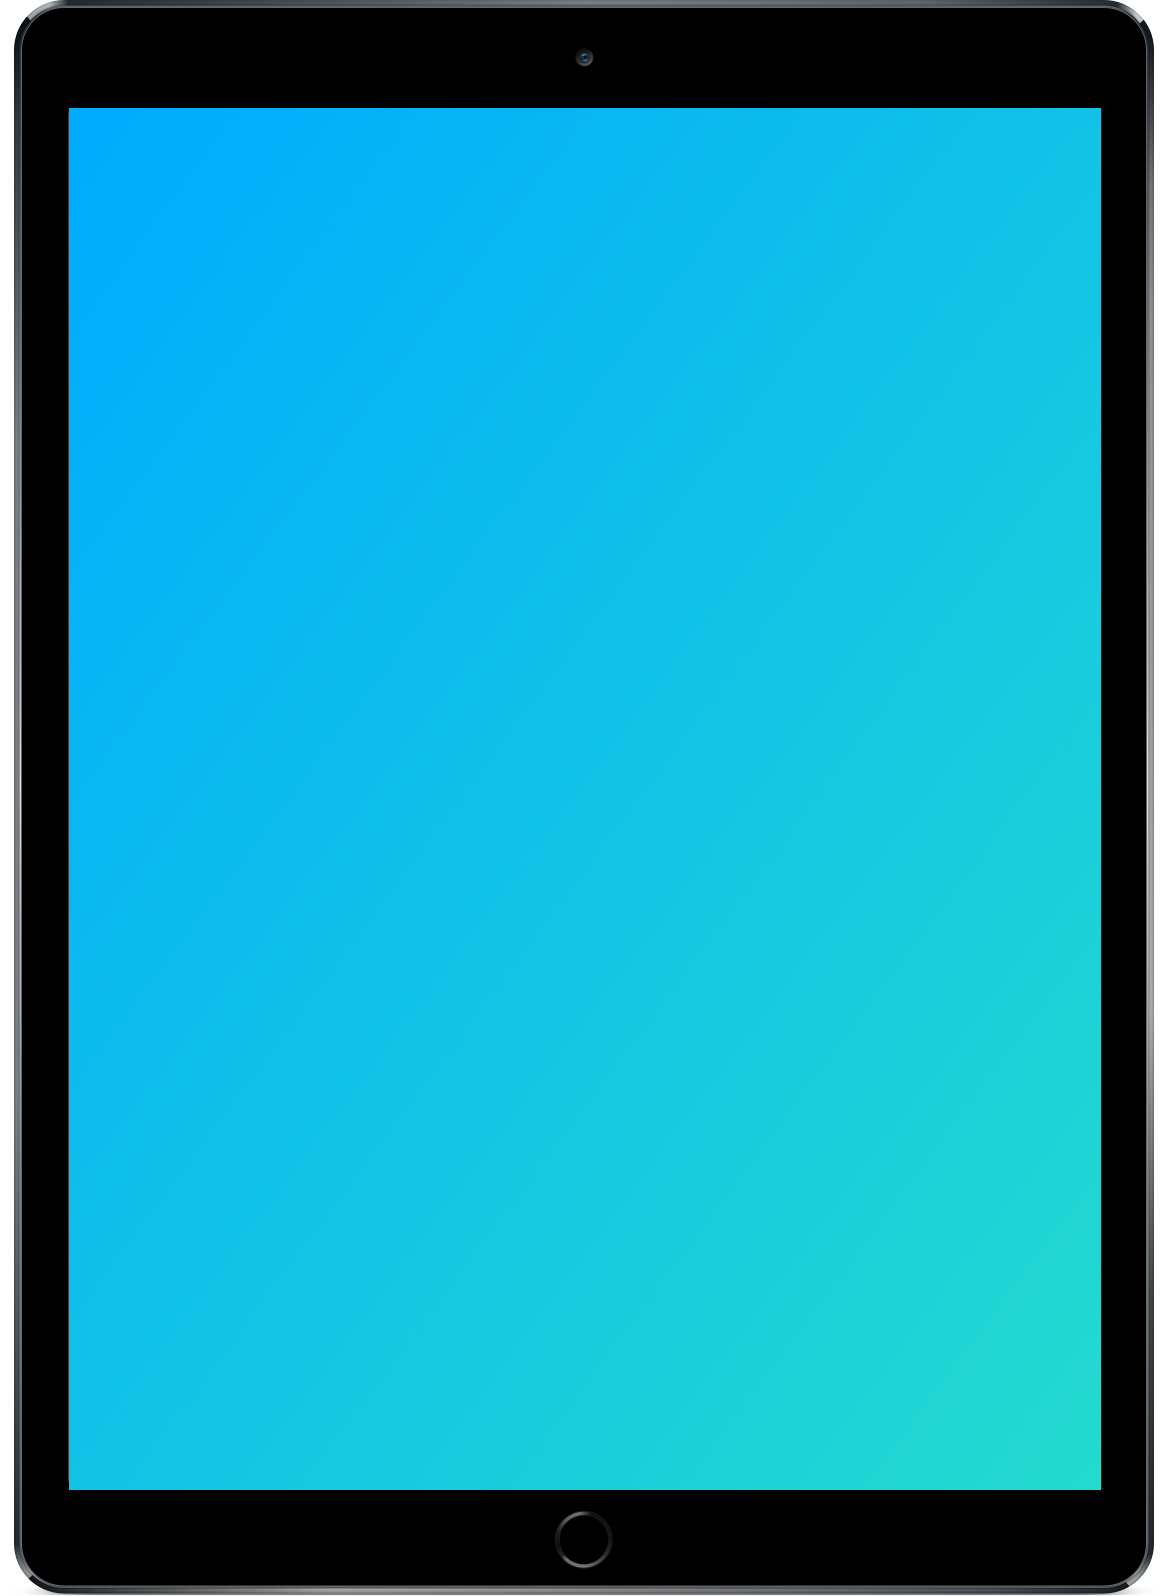
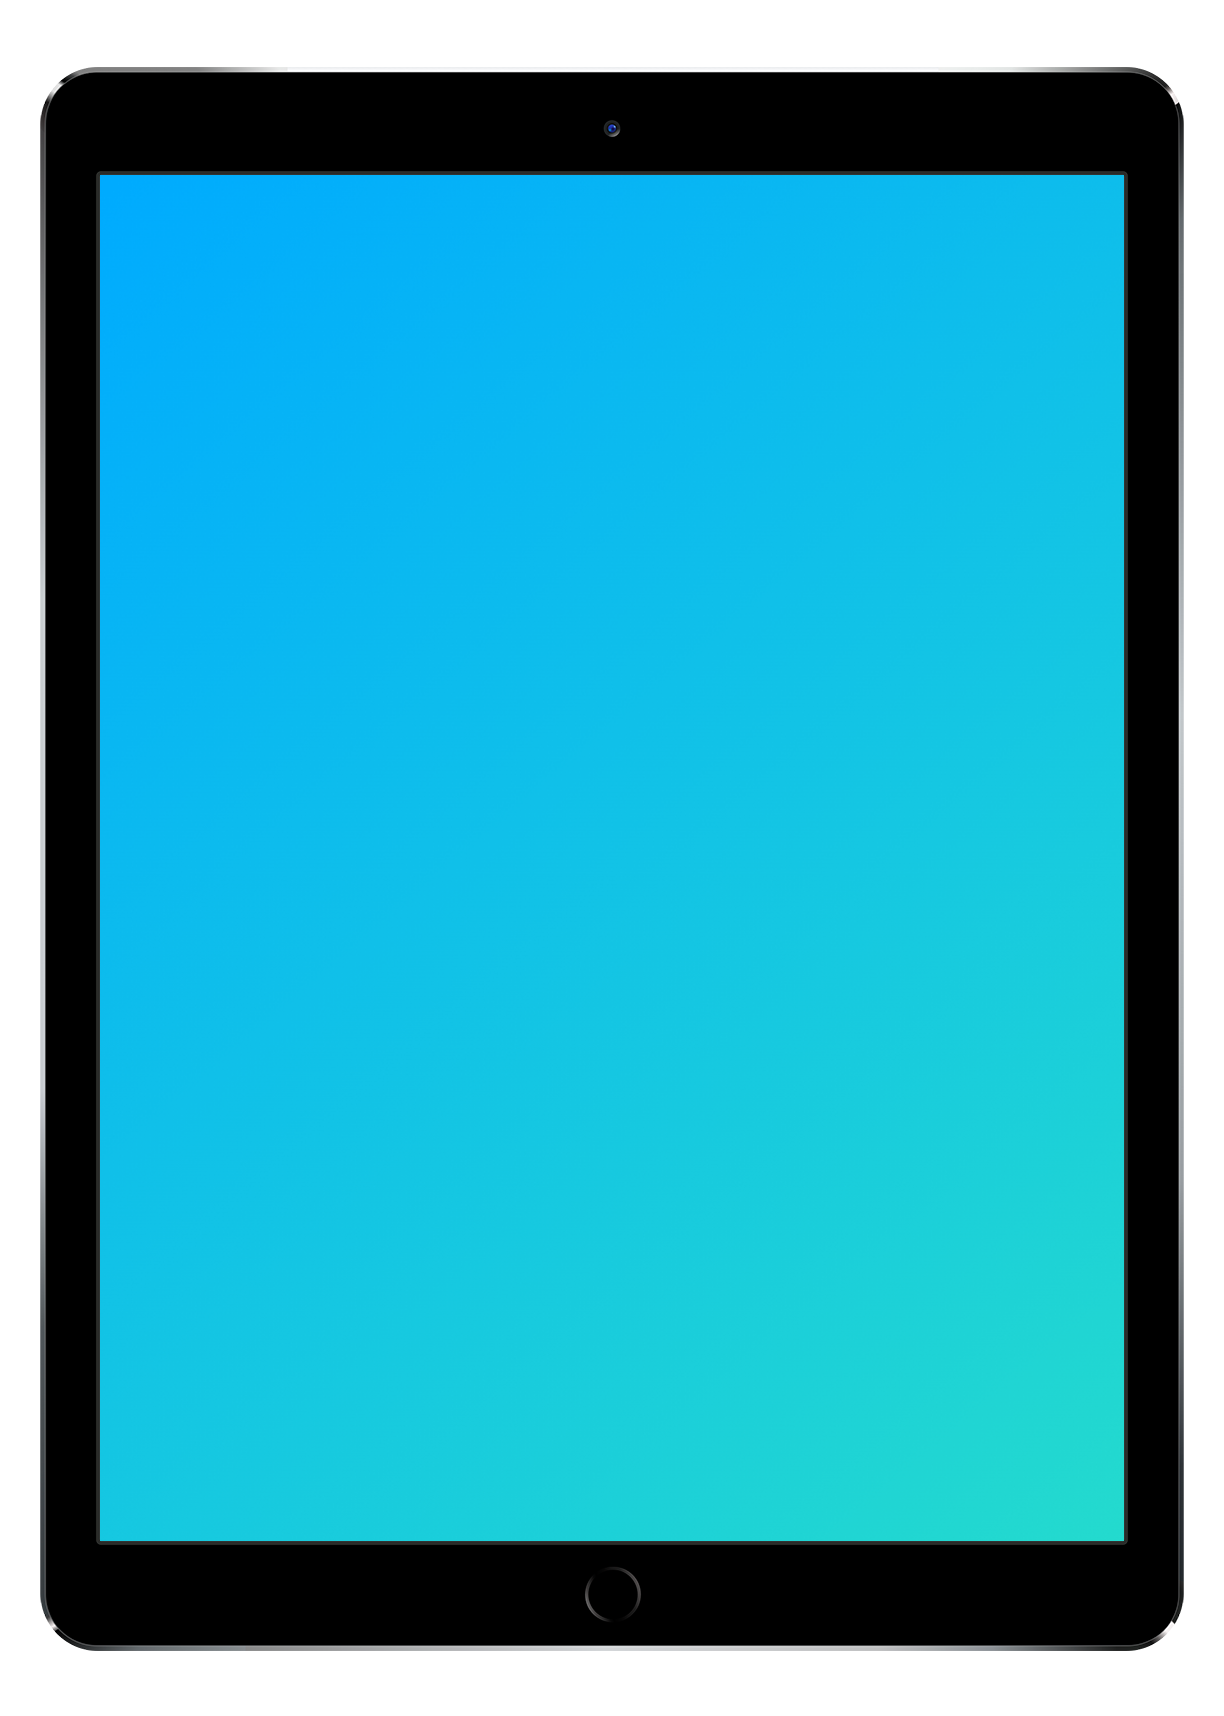
Compositions as class / Updated devices

Changed region(s): [[0.0, 0.0, 1.0, 1.0]]

diff --git a/includes/Classes/Template.class.php b/includes/Classes/Template.class.php
@@ -31,17 +31,17 @@ class Template {
 						);
 
 		$tablets['ipad-air-2'] = array(
-							'name' => 'iPad Air 2',
-							'screen' => array('x' => 80, 'y' => 140, 'width' => 768, 'height' => 1024 ),
-							'variations' => $ios_product_variations,
+							'name' 				=> 'iPad Air 2',
+							'screen' 			=> array('x' => 80, 'y' => 140, 'width' => 768, 'height' => 1024 ),
+							'variations' 	=> $ios_product_variations,
 							'landscape'		=> true
 						);
 
 		$tablets['ipadpro'] = array(
-							'name' => 'iPad Pro',
-							'image' => 'ipadpro.png',
-							'screen' => array('x' => 69, 'y' => 108, 'width' => 1032, 'height' => 1382 ),
-							'variations' => $ios_product_variations,
+							'name' 				=> 'iPad Pro',
+							'image' 			=> 'ipadpro.png',
+							'screen' 			=> array('x' => 100, 'y' => 175, 'width' => 1024, 'height' => 1366 ),
+							'variations' 	=> $ios_product_variations,
 							'landscape'		=> true
 							);
 
@@ -115,5 +115,99 @@ class Template {
 
 
 		return $devices;
+	}
+
+	public static function getCompositions() {
+
+		$compositions = array(
+			'2iphones' => array(
+								'information' => array(
+									'width' 	=> 1108,
+									'height'	=> 1118
+								),
+								'layers' => array(
+									0 => array(
+										'device' 	=> 'iphone8',
+										'from'		=> 'LT',
+										'pos'		=> array('x' => 0, 'y' => 0)
+									),
+									1 => array(
+										'device' 	=> 'iphone8',
+										'from'		=> 'LT',
+										'pos'		=> array('x' => 200, 'y' => 0)
+									)
+								)
+							),
+			'3iphones' => array(
+								'information' => array(
+									'width' 	=> 2216,
+									'height'	=> 2236
+								),
+								'layers' => array(
+									0 => array(
+										'device' 	=> 'iphone8',
+										'resize' 	=> 90,
+										'from'		=> 'LT',
+										'pos'		=> array('x' => 0, 'y' => 100)
+									),
+									1 => array(
+										'device' 	=> 'iphone8--silver',
+										'resize' 	=> 90,
+										'from'		=> 'RT',
+										'pos'		=> array('x' => 0, 'y' => 100)
+									),
+									2 => array(
+										'device' 	=> 'iphone8--gold',
+										'from'		=> 'LT',
+										'pos'		=> array('x' => 400, 'y' => 0)
+									)
+								)
+							),
+			'iphoneipad' => array(
+								'information' => array(
+									'width' 	=> 1516,
+									'height'	=> 1336
+								),
+								'layers' => array(
+									0 => array(
+										'device' 	=> 'ipad-air-2',
+										'from'		=> 'RB',
+										'pos'		=> array('x' => 0, 'y' => 0)
+									),
+									1 => array(
+										'device' 	=> 'iphone8--gold',
+										'from'		=> 'LB',
+										'resize'	=> 40,
+										'pos'		=> array('x' => 400, 'y' => -103)
+									)
+								)
+							),
+			'3ipadpro' => array(
+								'information' => array(
+									'width' 	=> 2064,
+									'height'	=> 1596
+								),
+								'layers' => array(
+									2 => array(
+										'device' 	=> 'ipadpro',
+										'from'		=> 'LT',
+										'pos'		=> array('x' => 0, 'y' => 0)
+									),
+									1 => array(
+										'device' 	=> 'ipadpro--gold',
+										'from'		=> 'LT',
+										'pos'		=> array('x' => 400, 'y' => 0)
+									),
+									0 => array(
+										'device' 	=> 'ipadpro--silver',
+										'from'		=> 'RT',
+										'pos'		=> array('x' => 0, 'y' => 0)
+									)
+								)
+							),
+		);
+
+		return $compositions;
+
 	}
 }

diff --git a/includes/Classes/CompositionGenerator.class.php b/includes/Classes/CompositionGenerator.class.php
@@ -1,0 +1,96 @@
+<?php
+namespace Classes;
+
+use PHPImageWorkshop\ImageWorkshop;
+use Classes\Template as Template;
+
+class CompositionGenerator {
+
+	function __construct() {
+		$this->compositions = Template::getCompositions();
+		$this->originalRoute = DOCUMENT_ROOT . '/assets/images/compositions/original/';
+		$this->placeholderRoute = DOCUMENT_ROOT . '/assets/images/compositions/placeholder/';
+		$this->devicePlaceholderRoute = DOCUMENT_ROOT . '/assets/images/devices/placeholder/';
+	}
+
+	private function getCompositionAtts( $composition ) {
+
+		$composition_atts = $this->compositions[ $composition ];
+
+		return $composition_atts;
+	}
+
+	public function createPlaceholder( $composition ) {
+
+		$filename =  $composition . ".png";
+		if( file_exists( $this->placeholderRoute . $filename ) ) {
+			return;
+		}
+
+		$compAtts = $this->getCompositionAtts( $composition );
+
+		// Container image
+		$comp = ImageWorkshop::initVirginLayer($compAtts['information']['width'], $compAtts['information']['height']);
+
+		// Add layers over the image
+		foreach ($compAtts['layers'] as $key => $layer) {
+			$device = ImageWorkshop::initFromPath($this->devicePlaceholderRoute . $layer['device'].'.png');
+			if( isset($layer['resize']) ) {
+				$device->resizeInPercent($layer['resize'], $layer['resize']);
+			}
+			$comp->addLayerOnTop($device, $layer['pos']['x'], $layer['pos']['y'], $layer['from']);
+		}
+
+		$backgroundColor = null; // transparent, only for PNG (otherwise it will be white if set null)
+		$imageQuality = 100; // useless for GIF, usefull for PNG and JPEG (0 to 100%)
+
+		$comp->save($this->placeholderRoute, $filename, false, $backgroundColor, $imageQuality);
+
+	}
+}
+/*
+function get_device_orientation( $device ) {
+	$device_image = $device.'.png';
+
+	list($width, $height) = getimagesize( 'assets/images/devices/'.$device_image );
+
+	if ($width > $height) {
+    	return 'landscape';
+	} else {
+	    return 'portrait';
+	}
+
+}
+
+function generate_composition_thumbnail ( $name, $comp ) {
+
+	// Container image
+	$emptyLayer = ImageWorkshop::initVirginLayer($comp['information']['width'], $comp['information']['height']);
+
+	// Add layers over the image
+	foreach ($comp['layers'] as $key => $layer) {
+		$device = ImageWorkshop::initFromPath(__DIR__.'/devices/'.$layer['device'].'.png');
+		if( isset($layer['resize']) ) {
+			$device->resizeInPercent($layer['resize'], $layer['resize']);
+		}
+		$emptyLayer->addLayerOnTop($device, $layer['pos']['x'], $layer['pos']['y'], $layer['from']);
+	}
+
+
+	//Saving the result
+	$dirPath = "compositions";
+	$filename = $name.'.png';
+	$createFolders = true; //will create the folder if not exist
+	$backgroundColor = null; // transparent, only for PNG (otherwise it will be white if set null)
+	$imageQuality = 100; // useless for GIF, usefull for PNG and JPEG (0 to 100%)
+
+	$emptyLayer->resizeInPercent(50, 50);
+	$emptyLayer->save($dirPath, $filename, $createFolders, $backgroundColor, $imageQuality);
+
+
+	return $filename;
+
+}
+
+?>
+*/

diff --git a/includes/templates/compositions.php b/includes/templates/compositions.php
@@ -10,12 +10,12 @@ function get_compositions() {
 							),
 							'layers' => array(
 								0 => array(
-									'device' 	=> 'iphone6',
+									'device' 	=> 'iphone8',
 									'from'		=> 'LT',
 									'pos'		=> array('x' => 0, 'y' => 0)
 								),
 								1 => array(
-									'device' 	=> 'iphone6',
+									'device' 	=> 'iphone8',
 									'from'		=> 'LT',
 									'pos'		=> array('x' => 400, 'y' => 0)
 								)
@@ -28,19 +28,19 @@ function get_compositions() {
 							),
 							'layers' => array(
 								0 => array(
-									'device' 	=> 'iphone6',
+									'device' 	=> 'iphone8',
 									'resize' 	=> 90,
 									'from'		=> 'LT',
 									'pos'		=> array('x' => 0, 'y' => 100)
 								),
 								1 => array(
-									'device' 	=> 'iphone6--silver',
+									'device' 	=> 'iphone8--silver',
 									'resize' 	=> 90,
 									'from'		=> 'RT',
 									'pos'		=> array('x' => 0, 'y' => 100)
 								),
 								2 => array(
-									'device' 	=> 'iphone6--gold',
+									'device' 	=> 'iphone8--gold',
 									'from'		=> 'LT',
 									'pos'		=> array('x' => 400, 'y' => 0)
 								)
@@ -58,7 +58,7 @@ function get_compositions() {
 									'pos'		=> array('x' => 0, 'y' => 0)
 								),
 								1 => array(
-									'device' 	=> 'iphone6--gold',
+									'device' 	=> 'iphone8--gold',
 									'from'		=> 'LB',
 									'resize'	=> 40,
 									'pos'		=> array('x' => 400, 'y' => -103)

diff --git a/includes/placeholders/composition.php b/includes/placeholders/composition.php
@@ -1,0 +1,19 @@
+<?php
+
+require __DIR__ . '/../../vendor/autoload.php';
+require __DIR__ . '/../../autoload.php';
+
+use Classes\Template as Template;
+use Classes\CompositionGenerator as CompositionGenerator;
+
+$compositions = Template::getCompositions();
+$generator = new CompositionGenerator();
+ini_set('memory_limit','256M');
+ini_set('max_execution_time', 300);
+
+foreach ($compositions as $key => $composition) {
+
+	$generator->createPlaceholder($key);
+
+	echo 'Generated';
+}
